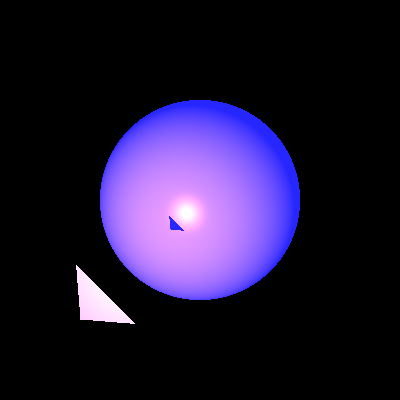
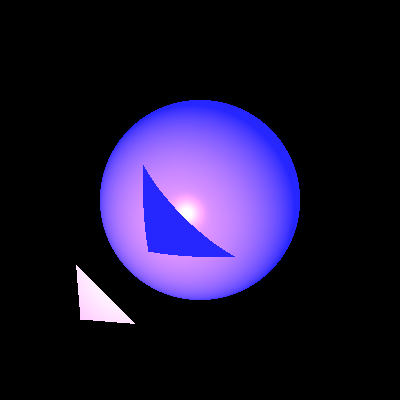
images

Changed region(s): [[0.36, 0.42, 0.6, 0.66]]

diff --git a/unittests/lighting/LightsTests.java b/unittests/lighting/LightsTests.java
@@ -211,13 +211,20 @@ public class LightsTests {
                 triangle1.setMaterial(new Material().setKd(0.5).setKs(0.5).setShininess(300)),
                 triangle2.setMaterial(new Material().setKd(0.5).setKs(0.5).setShininess(300)));
         scene2.getLights().add(
-                new SpotLight(new Color(500, 250, 250), new Point(20, -10, -50), new Vector(2, -2, -1))
+                new SpotLight(
+                        new Color(500, 250, 250),
+                        new Point(20, -10, -50),
+                        new Vector(2, -2, -1))
                         .setKl(0.0001).setKq(0.000005));
         scene2.getLights().add(
-                new PointLight(new Color(500, 250, 250), new Point(10, 20, -100))
+                new PointLight(
+                        new Color(500, 250, 250),
+                        new Point(10, 20, -100))
                         .setKl(0.0005).setKq(0.0005));
         scene2.getLights().add(
-                new DirectionalLight(new Color(300, 150, 130), new Vector(10, 3, -8)));
+                new DirectionalLight(
+                        new Color(300, 150, 130),
+                        new Vector(10, 3, -8)));
 
         ImageWriter imageWriter = new ImageWriter("13 multiLightsTriangles", 500, 500);
 

diff --git a/unittests/lighting/ShadowTests.java b/unittests/lighting/ShadowTests.java
@@ -99,7 +99,6 @@ public class ShadowTests {
      */
     @Test
     public void trianglesSphere() {
-        //scene.setAmbientLight(new AmbientLight(new Color(java.awt.Color.WHITE), new Double3(0.15)));
 
         scene.getGeometries().add(
                 new Triangle(new Point(-150, -150, -115), new Point(150, -150, -135), new Point(75, 75, -150))
@@ -114,7 +113,7 @@ public class ShadowTests {
                 new SpotLight(new Color(700, 400, 400), new Point(40, 40, 115), new Vector(-1, -1, -4))
                         .setKl(4E-4).setKq(2E-5));
 
-        camera.setImageWriter(new ImageWriter("19 adowTrianglesSphere", 600, 600)).renderImage().writeToImage();
+        camera.setImageWriter(new ImageWriter("19 shadowTrianglesSphere", 600, 600)).renderImage().writeToImage();
     }
 
 }
